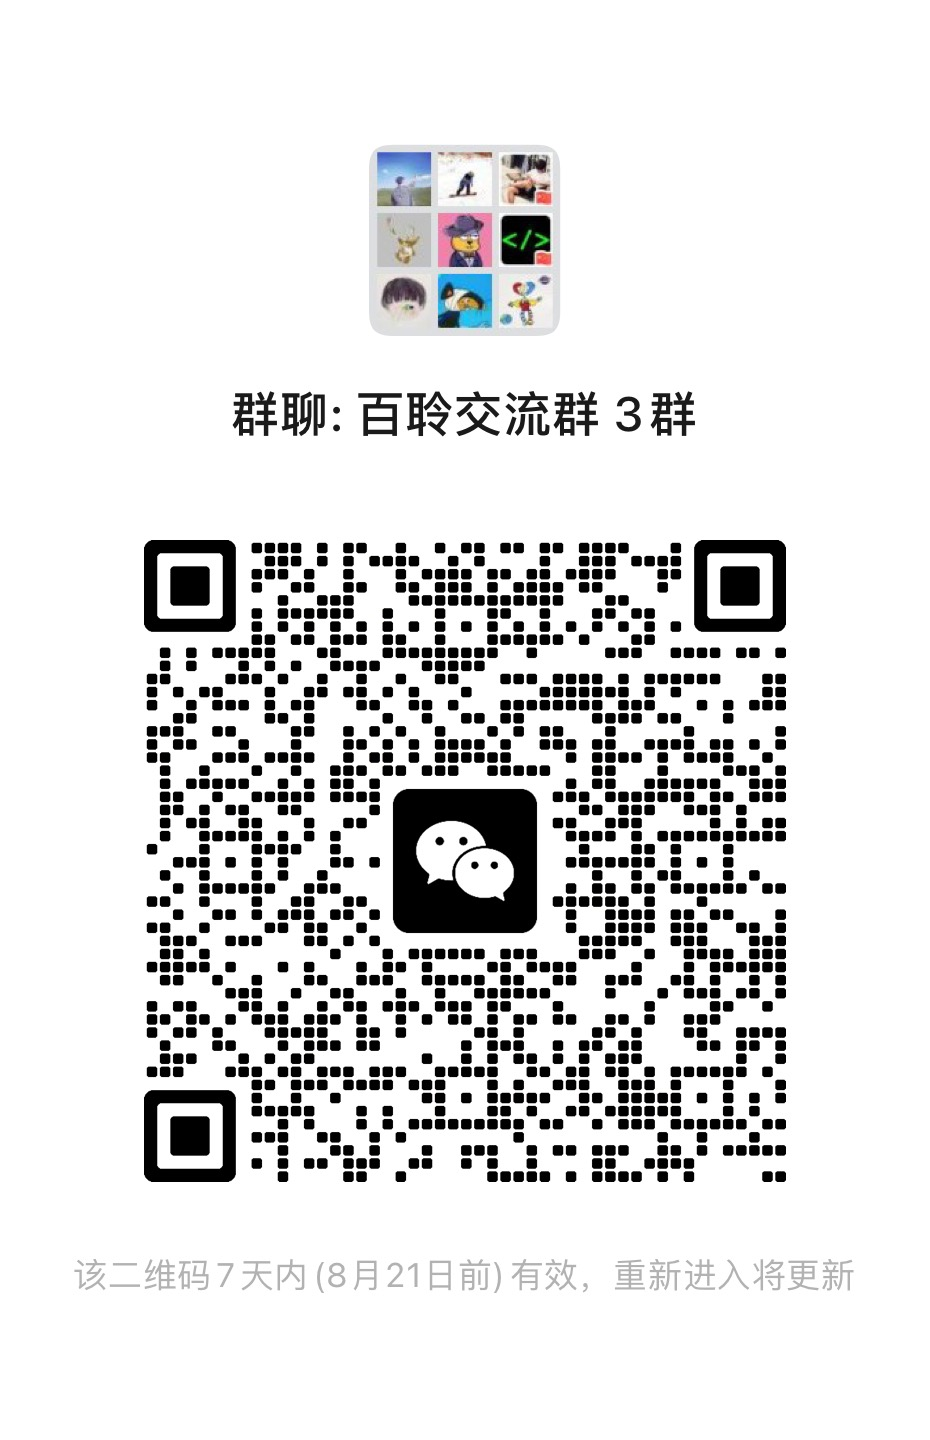
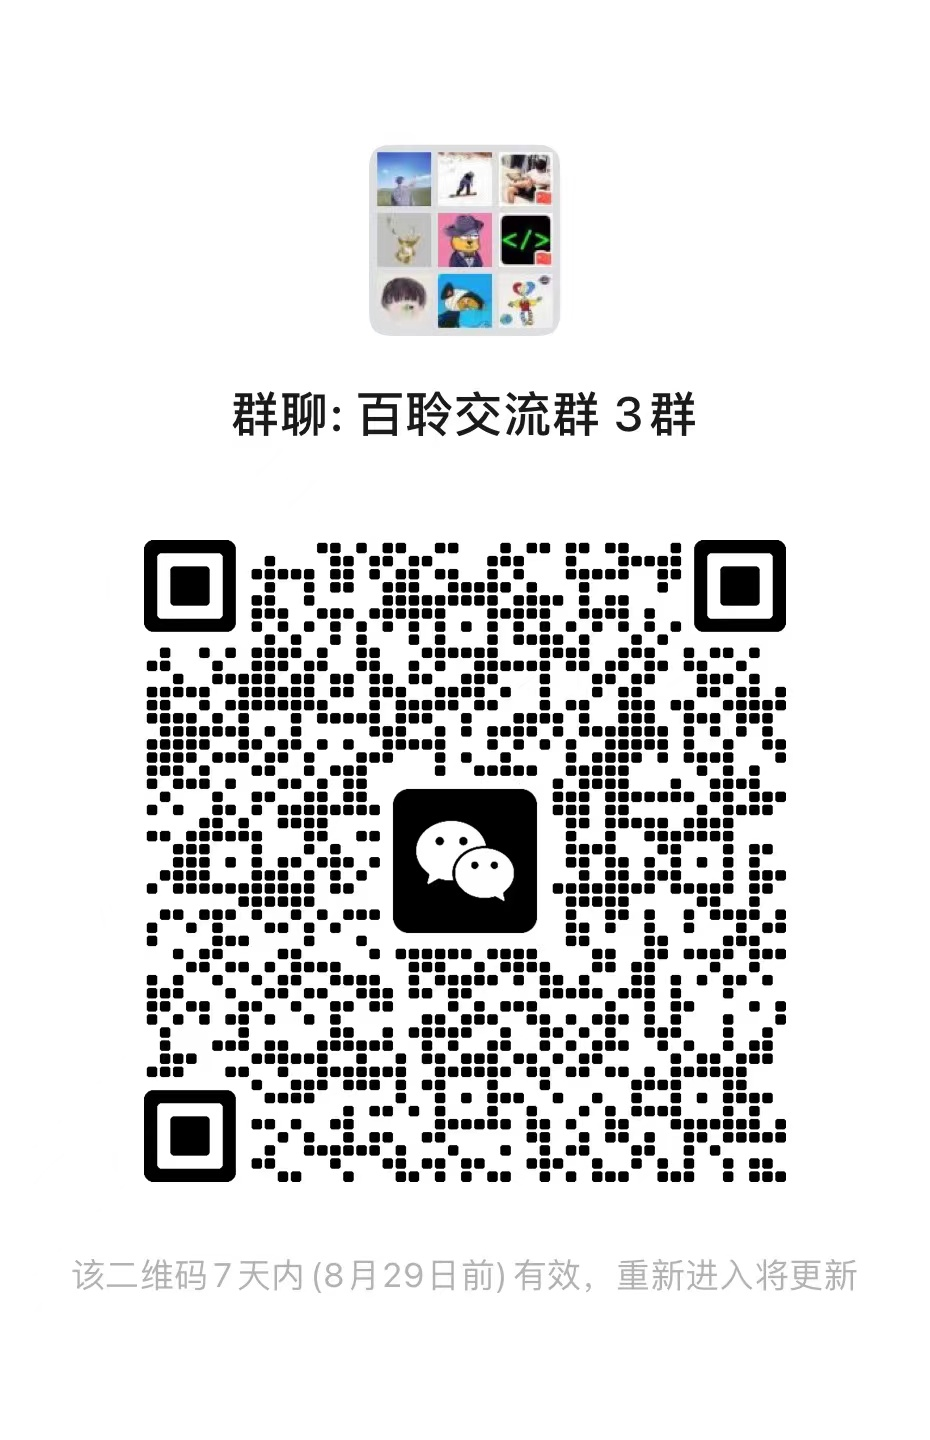
update

diff --git a/README.md b/README.md
@@ -939,6 +939,8 @@ If our work is helpful for you, please cite as:
 }
 ```
 
-Welcome to 🌟 BayLing!
+Welcome to 🌟 BayLing and join BayLing's WeChat!
 
-[![Star History Chart](https://api.star-history.com/svg?repos=ictnlp/BayLing&type=Date)](https://star-history.com/#ictnlp/BayLing&Date)
+<div  align="center">   
+  <img src="./assets/百聆交流群(BayLing_WeChat).jpeg" alt="img" width="50%" />
+</div>

diff --git a/README_zh.md b/README_zh.md
@@ -934,6 +934,8 @@ WMT22 德语-到-英语    | WMT22 英语-到-德语
 ```
 
 
-Welcome to 🌟 BayLing!
+欢迎🌟百聆并加入百聆交流群！
 
-[![Star History Chart](https://api.star-history.com/svg?repos=ictnlp/BayLing&type=Date)](https://star-history.com/#ictnlp/BayLing&Date)
+<div  align="center">   
+  <img src="./assets/百聆交流群(BayLing_WeChat).jpeg" alt="img" width="50%" />
+</div>
